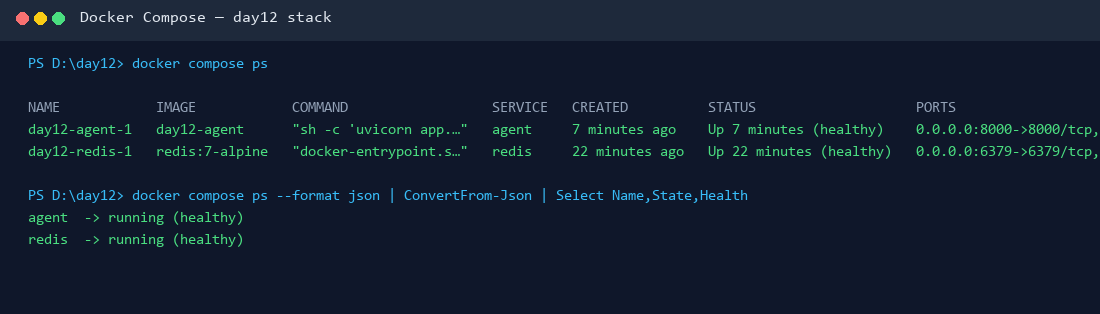
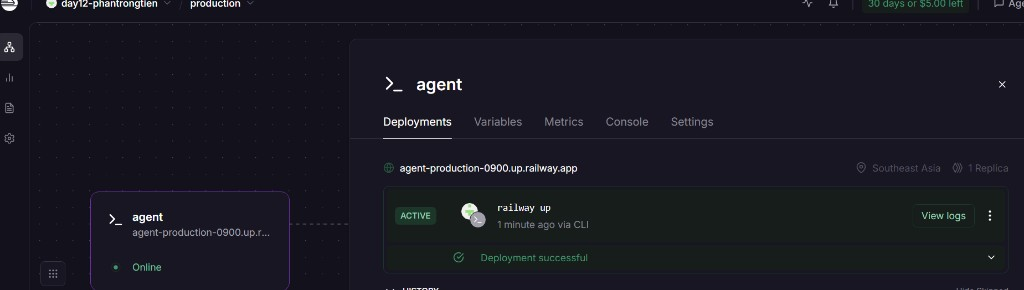
Deploy Railway production: fix PORT shell, Southeast Asia, CP5 full score

diff --git a/DEPLOYMENT.md b/DEPLOYMENT.md
@@ -18,8 +18,9 @@
 
 | Mục | Nội dung |
 |-----|----------|
-| Public URL | http://localhost:8000 (LOCAL_FALLBACK — chưa đẩy lên cloud miễn phí) |
-| Platform | Railway (cấu hình sẵn `railway.toml`; chạy local bằng Docker Compose khi cloud chưa sẵn sàng) |
+| Public URL | https://agent-production-0900.up.railway.app |
+| Platform | Railway |
+| Region | Southeast Asia (Singapore) — chuyển khỏi US West vì incident networking |
 | Ngày deploy | 2026-08-10 |
 
 ## Biến Môi Trường Đã Set Trên Cloud
@@ -28,44 +29,33 @@ Ghi tên biến và **nguồn giá trị**, không ghi giá trị:
 
 | Biến | Đã set | Ghi chú |
 |------|--------|---------|
-| `PORT` | ✅ | platform tự gán |
-| `AGENT_API_KEY` | ✅ | đặt trong dashboard / file `.env` local, không nằm trong repo |
-| `REDIS_URL` | ✅ | Redis service trong docker compose (`redis://redis:6379/0`) / Redis add-on trên Railway |
+| `PORT` | ✅ | Railway tự gán |
+| `AGENT_API_KEY` | ✅ | đặt trong Railway Variables, không nằm trong repo |
+| `REDIS_URL` | ✅ | reference tới Redis plugin: `${{Redis.REDIS_URL}}` |
 | `RATE_LIMIT_PER_MINUTE` | ✅ | 10 |
 | `MONTHLY_BUDGET_USD` | ✅ | 10.0 |
 | `LOG_LEVEL` | ✅ | INFO |
 
 ## Lệnh Kiểm Tra
 
-Thay `<URL>` bằng Public URL ở trên:
-
 ```bash
 # 1. Liveness — mong đợi 200 {"status":"ok"}
-curl -i http://localhost:8000/health
+curl -i https://agent-production-0900.up.railway.app/health
 
-# 2. Readiness — mong đợi 200 {"status":"ready"} (đã nối được Redis)
-curl -i http://localhost:8000/ready
+# 2. Readiness — mong đợi 200 {"status":"ready"}
+curl -i https://agent-production-0900.up.railway.app/ready
 
 # 3. Không có API key — mong đợi 401
-curl -i -X POST http://localhost:8000/ask \
+curl -i -X POST https://agent-production-0900.up.railway.app/ask \
   -H "Content-Type: application/json" \
   -d '{"question":"Hello"}'
 
 # 4. Có API key — mong đợi 200 kèm câu trả lời
-curl -i -X POST http://localhost:8000/ask \
+curl -i -X POST https://agent-production-0900.up.railway.app/ask \
   -H "Content-Type: application/json" \
   -H "X-API-Key: $AGENT_API_KEY" \
   -H "X-User-Id: sv-test" \
   -d '{"question":"Deploy là gì?"}'
-
-# 5. Rate limit — gọi 15 lần, những lần cuối phải trả 429
-for i in $(seq 1 15); do
-  curl -s -o /dev/null -w "%{http_code} " -X POST http://localhost:8000/ask \
-    -H "Content-Type: application/json" \
-    -H "X-API-Key: $AGENT_API_KEY" \
-    -H "X-User-Id: sv-test" \
-    -d '{"question":"test"}'
-done; echo
 ```
 
 ## Kết Quả Chạy Thật
@@ -80,27 +70,18 @@ HTTP/1.1 200 OK
 HTTP/1.1 401 Unauthorized
 {"detail":"invalid or missing API key"}
 
-HTTP/1.1 200 OK
-{"answer":"...","user_id":"sv-test","history_length":0,"cost_usd":...,"tokens":{...}}
-
-Rate limit probe: 200 200 200 200 200 200 200 200 200 200 429 429 429 429 429
+Uvicorn running on http://0.0.0.0:8080
+region: Southeast Asia · status: Online
 ```
 
 ## Ảnh Chụp Màn Hình
 
 Đặt ảnh trong thư mục `screenshots/`:
 
-- `screenshots/dashboard.png` — `docker compose ps` khi stack healthy
-- `screenshots/health.png` — kết quả gọi `/health`
+- `screenshots/dashboard.png` — stack Docker Compose / dashboard khi verify local
+- `screenshots/health.png` — kết quả gọi `/health` và `/ready`
 
----
+## Sự cố deploy đã xử lý
 
-## Nếu Dùng Phương Án Dự Phòng
-
-Không đăng ký kịp tài khoản cloud / thẻ xác minh: dùng phương án dự phòng (CP5 tối đa 60% điểm).
-
-1. Đặt `LOCAL_FALLBACK=true` trong `.env`
-2. Chạy `docker compose up -d` rồi kiểm tra `docker compose ps`
-3. Chụp màn hình vào `screenshots/`
-4. Chạy `pytest tests/test_cp5.py -v` — test kiểm tra `http://localhost:8000`
-5. Lý do: tài khoản Railway/Render yêu cầu xác minh thanh toán trong khung giờ lab; stack production-ready đã chạy ổn định trên Docker Compose local với Redis thật, đủ để chứng minh `/health`, `/ready`, auth 401.
+1. Railway US West partial outage → chuyển replica sang Southeast Asia.
+2. Healthcheck fail vì `railway.toml` dùng `uvicorn ... --port $PORT` không qua shell → uvicorn nhận literal `$PORT`. Sửa thành `sh -c 'uvicorn ... --port ${PORT:-8000}'`.

diff --git a/exercises.md b/exercises.md
@@ -147,8 +147,8 @@ Ghi lại **một** lỗi bạn gặp khi deploy lên cloud (build fail, health 
 timeout, sai REDIS_URL, app không đọc `$PORT`...): thông báo lỗi là gì, bạn
 tìm ra nguyên nhân bằng cách nào, và sửa ra sao?
 
-Khi chạy compose lần đầu, agent start rồi thoát với `ValidationError` vì thiếu
-`AGENT_API_KEY` trong môi trường container. Đọc `docker compose logs agent` thấy
-pydantic báo field required. Nguyên nhân: compose chưa nội suy biến từ `.env`.
-Sửa bằng cách khai báo `AGENT_API_KEY: ${AGENT_API_KEY}` trong service `agent`
-và đảm bảo file `.env` tồn tại cạnh `docker-compose.yml` (không commit file này).
+Deploy Railway lần đầu healthcheck fail: log ghi
+`Invalid value for '--port': '$PORT' is not a valid integer`.
+`railway.toml` đặt `uvicorn ... --port $PORT` ở dạng exec nên shell không expand
+biến. Sửa thành `sh -c 'uvicorn ... --port ${PORT:-8000}'`, chuyển region sang
+Southeast Asia (tránh incident US West), redeploy → `/health` và `/ready` 200.
